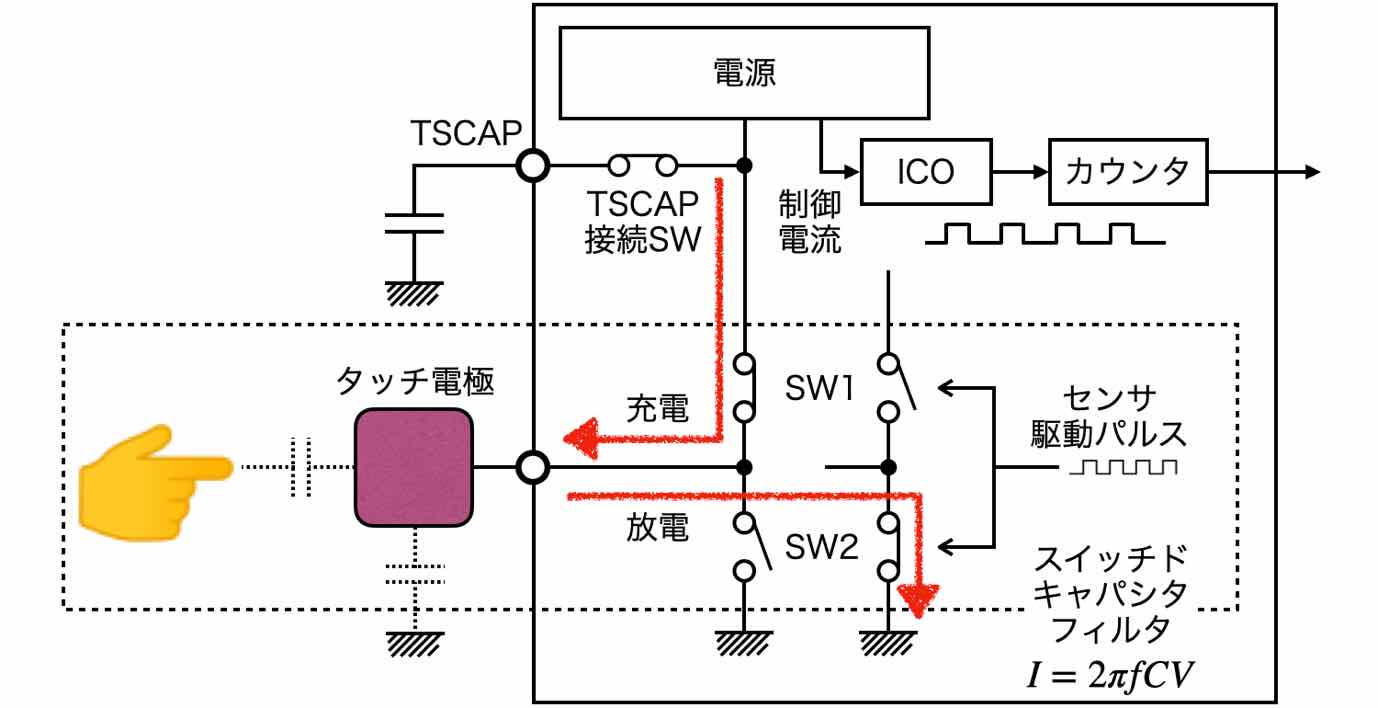
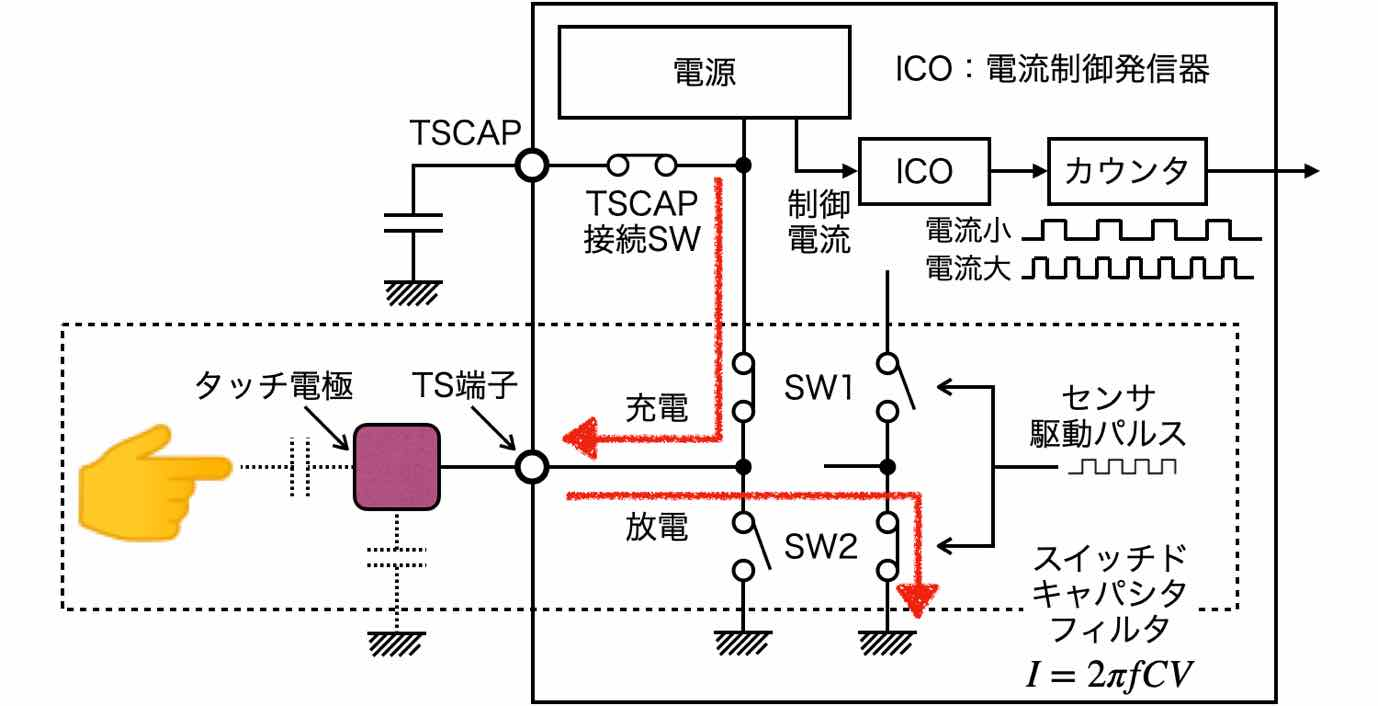
Update post.

diff --git a/2024/06/10/index.html b/2024/06/10/index.html
@@ -95,7 +95,7 @@
 
 <p>つまり、直接的に静電容量を測定するのではなく、電極に指を置く前後のカウンタ値の差で、タッチを検出するワケです。</p>
 
-<p><img src="/images/2024/06-10/CTSU.jpg" alt="CTSU 計測回路 - スイッチドキャパシタフィルタとICO" title="CTSU 計測回路 - スイッチドキャパシタフィルタとICO" width="1378" height="708" class="simple"></p>
+<p><img src="/images/2024/06-10/CTSU.jpg" alt="CTSU 計測回路 - スイッチドキャパシタフィルタとICO" title="CTSU 計測回路 - スイッチドキャパシタフィルタとICO" width="1378" height="706" class="simple"></p>
 
 <div class="quote clear-both">
 
@@ -555,6 +555,12 @@
 <p>また人体の静電容量は個人差もあるハズなので、安定して検出するには、カウンタ値のベースラインと判定閾値のキャリブレーションが必要であることが分かりました。電極の経年劣化にも耐えられるよう、<a href="#%E6%A4%9C%E5%87%BA%E5%8E%9F%E7%90%86%E3%81%AB%E5%9F%BA%E3%81%A5%E3%81%8F-ctsu-%E3%81%AE%E3%83%9D%E3%82%A4%E3%83%B3%E3%83%88">検出原理に基づく CTSU のポイント</a>で推察したパラメータを自動で設定できる、セルフキャリブレーションが組めればベストですね。</p>
 
 <p>とりあえず今回はここまでとし、次回以降、<a href="https://github.com/delta-G/R4_Touch" title="delta-G/R4_Touch: Capacitive Touch Sensing for the Arduino UNO-R4">R4_Touch</a> のソースコードとユーザーマニュアルに記載された CTSU の処理フローを見比べながら、CTSU レジスタの使い方を紐解いてみたいと思います <img class="emoji" title=":sunflower:" alt=":sunflower:" src="https://github.githubassets.com/images/icons/emoji/unicode/1f33b.png" height="20" width="20"></p>
+
+<h2 id="おまけ">おまけ</h2>
+
+<p>タッチセンサ部作成後、<a href="https://www.renesas.com/jp/ja/document/apn/capacitive-sensor-microcontrollers-ctsu-capacitive-touch-electrode-design-guide?r=1054146" title="静電容量センサマイコン 静電容量タッチ電極デザインガイド - RENESAS アプリケーションノート">静電容量センサマイコン 静電容量タッチ電極デザインガイド</a> を見つけました。それによると、TS 端子とタッチ電極間は、突入電流を低減させるためのダンピング抵抗を接続してくださいとのことです。</p>
+
+<p>また色々な電極や配線パターンの要件が載っているので、プリント基板を起こす際には参考にすると良いと思います。</p>
 
 <h2 id="参考文献">参考文献</h2>
 

diff --git a/2024/05/16/index.html b/2024/05/16/index.html
@@ -496,6 +496,6 @@
 <script>'use strict';(function(){const b=document.querySelector("#js-pagetop");b.addEventListener("click",c=>{function e(a){null==d&&(d=a);a-=d;var f=a/500;window.scrollTo(0,g-g*(1===f?1:-Math.pow(2,-10*f)+1));500>a?requestAnimationFrame(e):window.scroll(h)}c.stopPropagation();const h={top:0,left:0},g=window.scrollY;let d=null;window.scroll(h);requestAnimationFrame(e)});window.addEventListener("scroll",c=>{1<window.scrollY?b.classList.add("fadeIn"):b.classList.remove("fadeIn");"undefined"===typeof commentCount||commentCount.done||commentCount.show(c)});document.querySelector("#open_disqus").addEventListener("click",a=>{var disqus_config=function(){this.page.url="https://embedded-kiddie.github.io/2024/05/16/";this.page.identifier="/2024/05/16/"};a=document;const b=a.createElement("script");b.src="https://embedded-kiddie.disqus.com/embed.js";b.setAttribute("data-timestamp",+new Date);(a.head||a.body).appendChild(b)});const t=document.querySelector("#disqus-comment-count"),commentCount={done:!1,show:function(a){a=t.getBoundingClientRect();a.top<=window.innerHeight&&0<=a.bottom&&(this.done=!0,a=document.createElement("script"),a.id="dsq-count-scr",a.src="https://embedded-kiddie.disqus.com/count.js",t.appendChild(a))}};})();</script>
 <script async src="https://cdn.jsdelivr.net/npm/luminous-lightbox@2.4.0/dist/luminous.min.js" integrity="sha256-4vMnmzhFzuXVxRHRFNwJzPnT923+MfWHWU4deBjd/vQ=" crossorigin="anonymous"></script>
 <script async src="/assets/luminous-config.min.js"></script>
-<script async src="https://cdn.jsdelivr.net/npm/mermaid@10.9.1/dist/mermaid.min.js"></script>
+<script async src="https://cdn.jsdelivr.net/npm/mermaid/dist/mermaid.min.js"></script>
 </body>
 </html>
